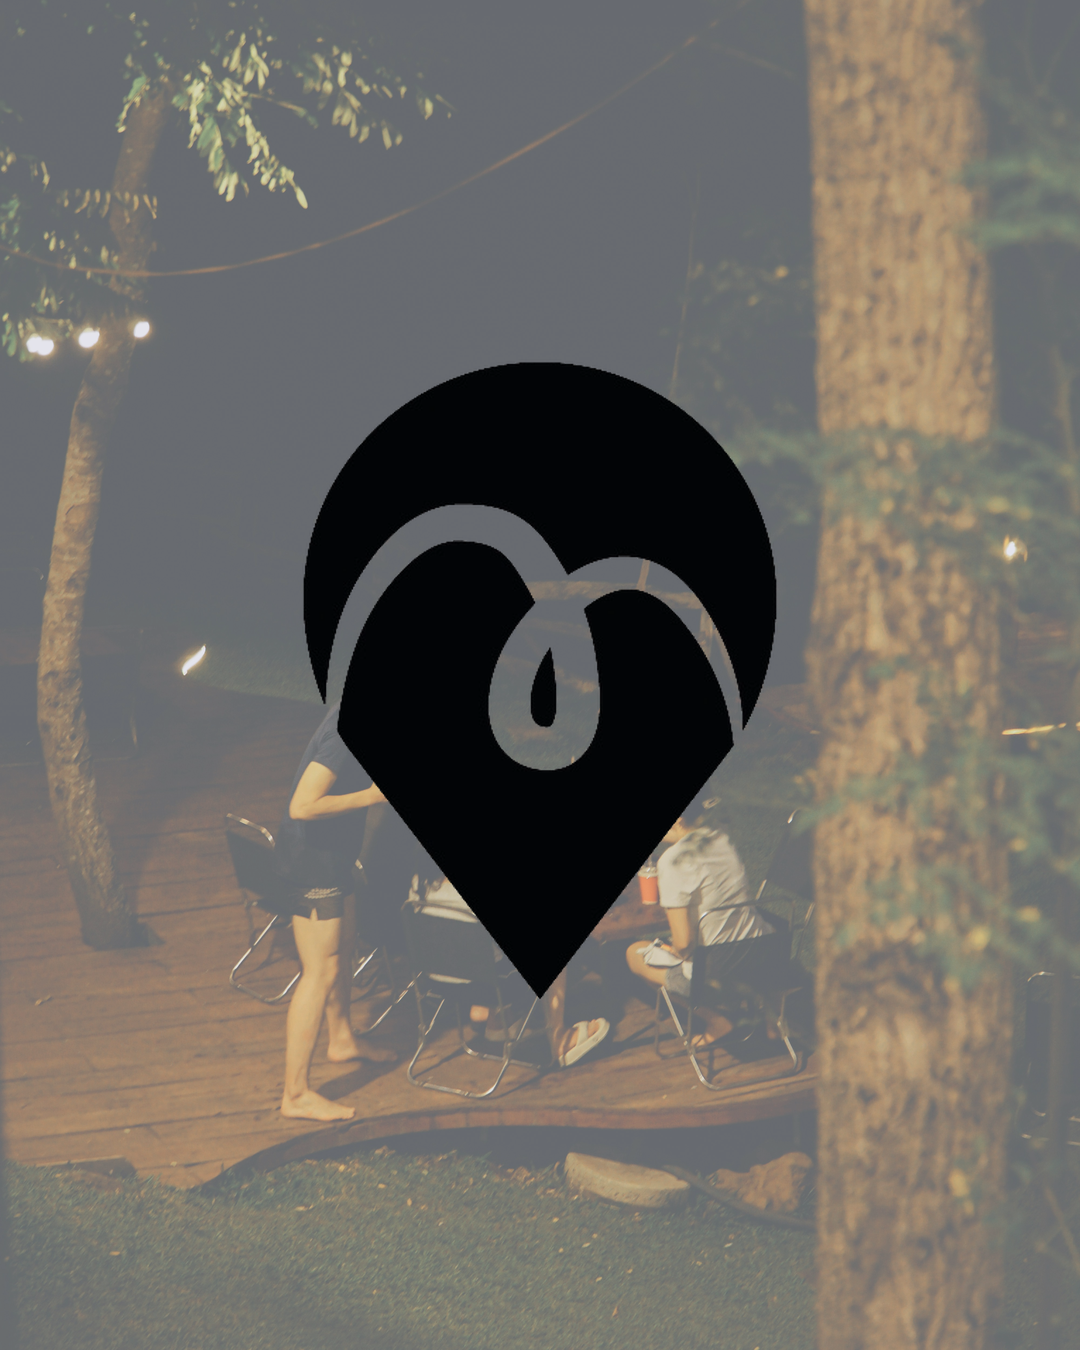
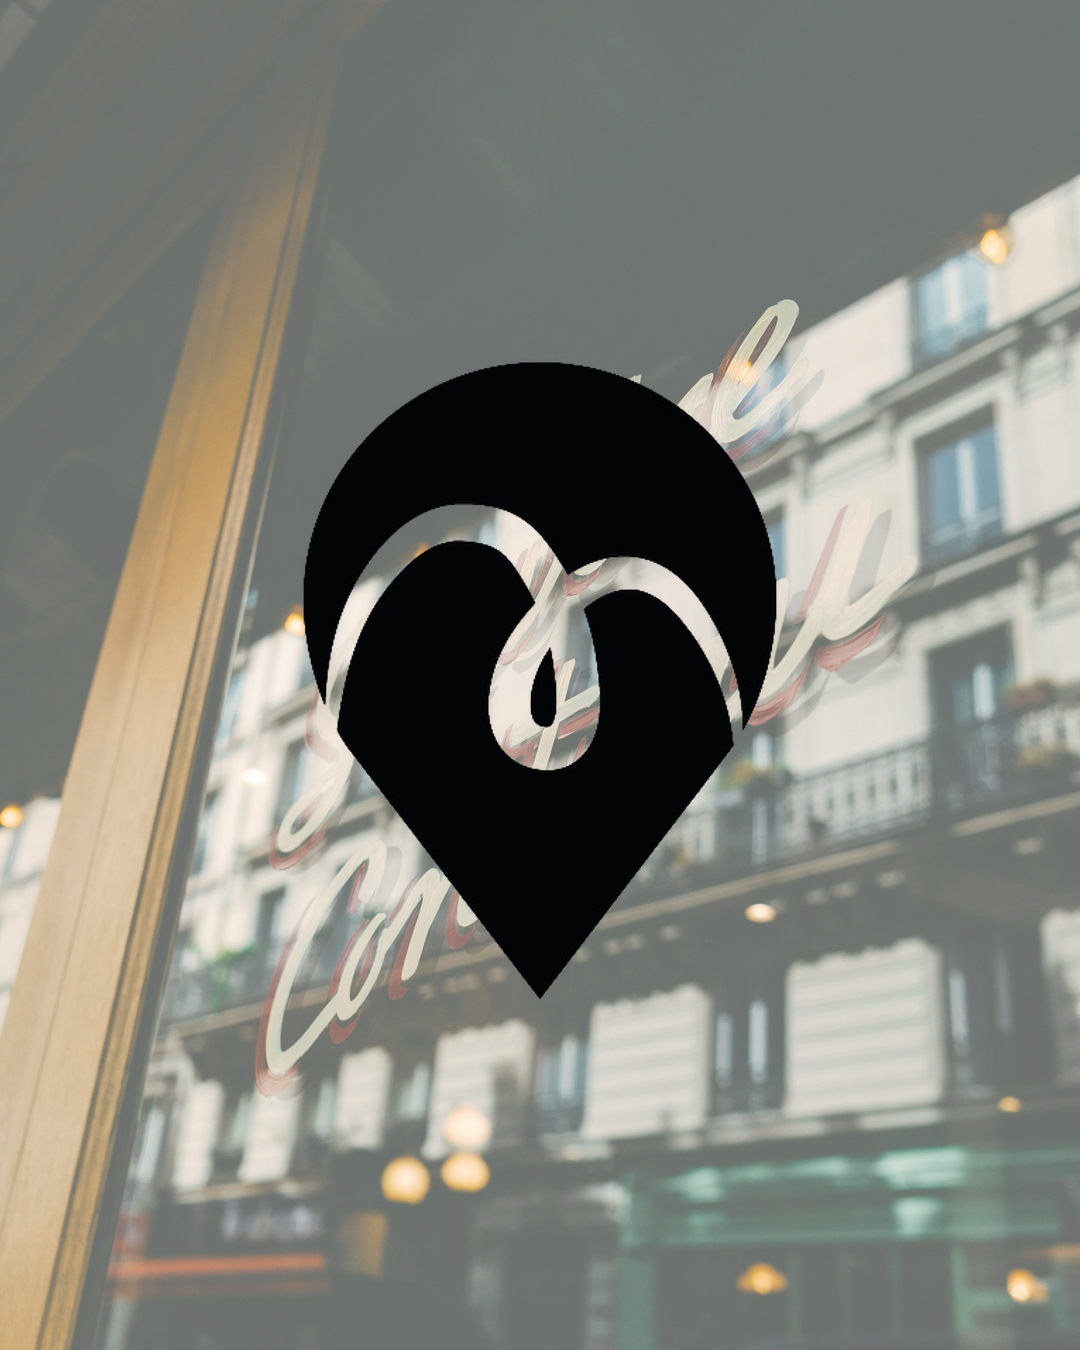
change randomize posts + ambiance003 changed

diff --git a/scheduler.py b/scheduler.py
@@ -11,6 +11,7 @@ Commandes:
     python scheduler.py regenerate-images                  # Régénérer les images des drafts
 """
 import json
+import random
 import sys
 from datetime import datetime, timezone
 from pathlib import Path
@@ -28,7 +29,7 @@ from services.claude_service import ClaudeService, check_claude_availability
 from services.unsplash_service import UnsplashService, check_unsplash_availability
 
 
-# Ordre strict de publication : Phrase -> Chiffre -> Photo (cyclique)
+# Types de posts (ordre utilisé pour affichage des stats)
 PUBLISH_ORDER = ["phrase", "chiffre", "photo"]
 
 
@@ -87,28 +88,40 @@ def get_posted_count() -> int:
     return count_posts_by_status("posted")
 
 
-def get_next_post_type() -> str:
-    """Détermine le type du prochain post à publier selon l'ordre strict."""
-    posted_count = get_posted_count()
-    return PUBLISH_ORDER[posted_count % 3]
+def get_next_post_type(data: Optional[dict] = None) -> Optional[str]:
+    """
+    Détermine le type du prochain post à publier (aléatoire parmi les types disponibles).
+    
+    Returns:
+        Un type ayant au moins un post "ready", ou None si aucun
+    """
+    if data is None:
+        data = load_content()
+    ready_by_type = {}
+    for post in data.get("posts", []):
+        if post.get("status") == "ready":
+            t = post.get("type")
+            ready_by_type[t] = ready_by_type.get(t, 0) + 1
+    available = [t for t in ready_by_type if ready_by_type[t] > 0]
+    return random.choice(available) if available else None
 
 
 def get_next_post_to_publish() -> Optional[dict]:
     """
-    Récupère le prochain post à publier selon l'ordre strict.
+    Récupère le prochain post à publier (type et post choisis aléatoirement).
     
     Returns:
         Le post à publier ou None si aucun n'est disponible
     """
     data = load_content()
-    next_type = get_next_post_type()
-    
-    # Chercher le premier post "ready" du bon type
-    for post in data.get("posts", []):
-        if post.get("type") == next_type and post.get("status") == "ready":
-            return post
-    
-    return None
+    next_type = get_next_post_type(data)
+    if not next_type:
+        return None
+    ready_posts = [
+        p for p in data.get("posts", [])
+        if p.get("type") == next_type and p.get("status") == "ready"
+    ]
+    return random.choice(ready_posts) if ready_posts else None
 
 
 def format_caption(post: dict) -> str:
@@ -426,7 +439,7 @@ def generate_phrases(from_num: int, to_num: int, dry_run: bool):
 @click.option("--force-type", type=click.Choice(["phrase", "chiffre", "photo"]), 
               help="Forcer un type spécifique (ignore l'ordre)")
 def publish_next(dry_run: bool, force_type: Optional[str]):
-    """Publie le prochain post selon l'ordre strict (Phrase → Chiffre → Photo)."""
+    """Publie le prochain post (sélection aléatoire parmi les posts ready)."""
     
     # Vérifier la configuration Instagram
     ig_status = check_instagram_availability()
@@ -436,29 +449,32 @@ def publish_next(dry_run: bool, force_type: Optional[str]):
     
     data = load_content()
     
-    # Déterminer le type à publier
-    if force_type:
-        next_type = force_type
-        click.echo(f"Type forcé: {next_type}")
-    else:
-        next_type = get_next_post_type()
-    
-    click.echo(f"\n=== Publication du prochain post ===")
-    click.echo(f"Type attendu: {next_type}")
-    click.echo(f"Posts déjà publiés: {get_posted_count()}")
-    
-    # Trouver le post à publier
+    # Sélectionner le post à publier (aléatoire)
     post_to_publish = None
     post_index = None
     
-    for i, post in enumerate(data.get("posts", [])):
-        if post.get("type") == next_type and post.get("status") == "ready":
-            post_to_publish = post
-            post_index = i
-            break
+    if force_type:
+        click.echo(f"Type forcé: {force_type}")
+        ready_posts = [
+            (i, p) for i, p in enumerate(data.get("posts", []))
+            if p.get("type") == force_type and p.get("status") == "ready"
+        ]
+        if ready_posts:
+            post_index, post_to_publish = random.choice(ready_posts)
+    else:
+        post_to_publish = get_next_post_to_publish()
+        if post_to_publish:
+            post_index = next(
+                i for i, p in enumerate(data.get("posts", []))
+                if p.get("id") == post_to_publish["id"]
+            )
+    
+    click.echo(f"\n=== Publication du prochain post ===")
+    click.echo(f"Posts déjà publiés: {get_posted_count()}")
     
     if not post_to_publish:
-        click.echo(f"\nAucun post '{next_type}' avec status 'ready' trouvé.", err=True)
+        msg = f"\nAucun post '{force_type}' avec status 'ready' trouvé." if force_type else "\nAucun post ready disponible."
+        click.echo(msg, err=True)
         click.echo("Générez du contenu avec: python scheduler.py generate-content")
         return
     
@@ -525,35 +541,23 @@ def grid_preview(rows: int):
     click.echo("           GRILLE INSTAGRAM - LE MIDDLE")
     click.echo("=" * 60)
     
-    # Calculer le prochain type
-    next_type = get_next_post_type()
     posted_count = get_posted_count()
     
-    click.echo(f"\nProchain type à publier: {next_type.upper()}")
-    click.echo(f"Position dans le cycle: {(posted_count % 3) + 1}/3 (P-C-Ph)")
+    click.echo(f"\nMode: aléatoire")
     click.echo(f"Total publiés: {posted_count}")
     
-    # Afficher la file d'attente
-    click.echo("\n--- File d'attente (prochains posts) ---")
+    # Afficher la file d'attente (ordre aléatoire simulé)
+    click.echo("\n--- File d'attente (ordre aléatoire simulé) ---")
     click.echo(f"{'Col 1':<20} {'Col 2':<20} {'Col 3':<20}")
     click.echo("-" * 60)
     
-    # Construire la grille des prochains posts selon l'ordre
-    queue = []
-    type_queues = {
-        "phrase": [p for p in ready if p.get("type") == "phrase"],
-        "chiffre": [p for p in ready if p.get("type") == "chiffre"],
-        "photo": [p for p in ready if p.get("type") == "photo"]
-    }
-    
-    # Simuler les prochains posts
-    for i in range(rows * 3):
-        type_needed = PUBLISH_ORDER[(posted_count + i) % 3]
-        if type_queues[type_needed]:
-            post = type_queues[type_needed].pop(0)
-            queue.append(post)
-        else:
-            queue.append({"id": f"[MANQUANT:{type_needed}]", "status": "missing", "type": type_needed})
+    # Mélanger les posts ready et prendre les N premiers
+    queue = list(ready)
+    random.shuffle(queue)
+    queue = queue[: rows * 3]
+    # Compléter avec des placeholders si nécessaire
+    while len(queue) < rows * 3:
+        queue.append({"id": "[MANQUANT]", "status": "missing", "type": "?"})
     
     # Afficher en lignes de 3
     for row in range(rows):
@@ -627,27 +631,26 @@ def queue_status():
             click.echo(f"{post_type:<12} {s['ready']:<8} {s['draft']:<8} {s['posted']:<8}")
     
     # Prochains posts
-    click.echo(f"\n--- Ordre de publication ---")
-    next_type = get_next_post_type()
+    click.echo(f"\n--- Mode de publication ---")
     posted_count = get_posted_count()
     
     click.echo(f"Posts publiés: {posted_count}")
-    click.echo(f"Prochain type: {next_type}")
-    click.echo(f"Cycle actuel: {PUBLISH_ORDER}")
+    click.echo(f"Mode: aléatoire (type et post choisis au hasard)")
     
-    # Liste des prochains posts
-    click.echo(f"\n--- Prochains posts à publier ---")
+    # Liste des prochains posts par type (exemple de sélection)
+    click.echo(f"\n--- Posts ready par type ---")
     
-    for i, post_type in enumerate(PUBLISH_ORDER):
+    for post_type in PUBLISH_ORDER:
         ready_posts = [p for p in posts if p.get("type") == post_type and p.get("status") == "ready"]
         
         if ready_posts:
-            next_post = ready_posts[0]
-            indicator = ">" if post_type == next_type else " "
-            click.echo(f"{indicator} {post_type.upper()}: {next_post['id']}")
+            sample = random.sample(ready_posts, min(3, len(ready_posts)))
+            ids = ", ".join(p["id"] for p in sample)
+            if len(ready_posts) > 3:
+                ids += f" (+{len(ready_posts) - 3} autres)"
+            click.echo(f"  {post_type.upper()}: {ids}")
         else:
-            indicator = ">" if post_type == next_type else " "
-            click.echo(f"{indicator} {post_type.upper()}: [AUCUN POST READY]")
+            click.echo(f"  {post_type.upper()}: [AUCUN POST READY]")
     
     # Services status
     click.echo(f"\n--- État des services ---")

diff --git a/main.py b/main.py
@@ -10,6 +10,7 @@ Commandes:
     python main.py status                      # Vérifier la configuration
 """
 import json
+import random
 import sys
 from pathlib import Path
 from typing import Optional
@@ -563,9 +564,10 @@ def auto_photo(post_id: str):
     try:
         service = UnsplashService()
         
-        # Obtenir un preset aléatoire
-        preset_key, preset_query = service.get_random_preset()
-        click.echo(f"\nPreset aléatoire: {preset_key}")
+        # Pour les posts ambiance, utiliser uniquement les presets urbains
+        ambiance_only = post.get("category") == "ambiance"
+        preset_key, preset_query = service.get_random_preset(ambiance_only=ambiance_only)
+        click.echo(f"\nPreset aléatoire: {preset_key}" + (" (urbain)" if ambiance_only else ""))
         click.echo(f"Recherche: '{preset_query}'")
         
         # Récupérer une photo aléatoire
@@ -627,7 +629,7 @@ def auto_photo(post_id: str):
         click.echo(f"\nErreur: {e}", err=True)
 
 
-# Ordre strict de publication : Phrase -> Chiffre -> Photo (cyclique)
+# Types de posts (ordre utilisé pour affichage des stats)
 PUBLISH_ORDER = ["phrase", "chiffre", "photo"]
 
 
@@ -651,35 +653,23 @@ def grid_preview(rows: int):
     click.echo("           GRILLE INSTAGRAM - LE MIDDLE")
     click.echo("=" * 60)
     
-    # Calculer le prochain type
     posted_count = len(posted)
-    next_type = PUBLISH_ORDER[posted_count % 3]
     
-    click.echo(f"\nProchain type à publier: {next_type.upper()}")
-    click.echo(f"Position dans le cycle: {(posted_count % 3) + 1}/3 (P-C-Ph)")
+    click.echo(f"\nMode: aléatoire")
     click.echo(f"Total publiés: {posted_count}")
     
-    # Afficher la file d'attente
-    click.echo("\n--- File d'attente (prochains posts) ---")
+    # Afficher la file d'attente (ordre aléatoire simulé)
+    click.echo("\n--- File d'attente (ordre aléatoire simulé) ---")
     click.echo(f"{'Col 1':<20} {'Col 2':<20} {'Col 3':<20}")
     click.echo("-" * 60)
     
-    # Construire la grille des prochains posts selon l'ordre
-    queue = []
-    type_queues = {
-        "phrase": [p for p in ready if p.get("type") == "phrase"],
-        "chiffre": [p for p in ready if p.get("type") == "chiffre"],
-        "photo": [p for p in ready if p.get("type") == "photo"]
-    }
-    
-    # Simuler les prochains posts
-    for i in range(rows * 3):
-        type_needed = PUBLISH_ORDER[(posted_count + i) % 3]
-        if type_queues[type_needed]:
-            post = type_queues[type_needed].pop(0)
-            queue.append(post)
-        else:
-            queue.append({"id": f"[MANQUANT:{type_needed}]", "status": "missing", "type": type_needed})
+    # Mélanger les posts ready et prendre les N premiers
+    queue = list(ready)
+    random.shuffle(queue)
+    queue = queue[: rows * 3]
+    # Compléter avec des placeholders si nécessaire
+    while len(queue) < rows * 3:
+        queue.append({"id": "[MANQUANT]", "status": "missing", "type": "?"})
     
     # Afficher en lignes de 3
     for row in range(rows):

diff --git a/services/unsplash_service.py b/services/unsplash_service.py
@@ -20,19 +20,34 @@ class UnsplashService:
         "cafe_terrace": "cafe terrace people",
         "coffee_shop": "coffee shop friends",
         "bistro_paris": "bistro paris terrace",
+        # Terrasses urbaines (Paris, grandes villes)
+        "terrace_paris": "paris cafe terrace people",
+        "terrace_city": "city terrace outdoor dining",
+        "terrace_toast": "friends toast glasses terrace paris",
         # Bars
         "wine_bar": "wine bar friends",
         "rooftop_bar": "rooftop bar",
         "bar_night": "bar people night",
-        "happy_hour": "happy hour drinks friends",
+        "happy_hour": "happy hour terrace paris",
         # Restaurants
         "restaurant_friends": "restaurant friends dinner",
+        "restaurant_table": "restaurant table food people smiling",
+        "restaurant_dining": "restaurant dinner friends happy",
         "outdoor_dining": "outdoor dining people",
         "brunch": "brunch friends",
-        # Ambiance générale
+        # Ambiance générale (urbain)
         "friends_drinking": "friends drinks",
-        "aperitif": "aperitif outdoor",
+        "aperitif": "paris terrace aperitif",
     }
+
+    # Presets réservés aux posts ambiance (terrasses + restaurants uniquement)
+    AMBIANCE_PRESETS = [
+        "terrace_paris",
+        "terrace_city",
+        "terrace_toast",
+        "restaurant_table",
+        "restaurant_dining",
+    ]
 
     def __init__(self):
         """Initialise le service Unsplash."""
@@ -46,14 +61,21 @@ class UnsplashService:
             "Accept-Version": "v1",
         }
 
-    def get_random_preset(self) -> tuple[str, str]:
+    def get_random_preset(self, ambiance_only: bool = False) -> tuple[str, str]:
         """
         Retourne un preset aléatoire (clé, query).
+        
+        Args:
+            ambiance_only: Si True, ne retourne que les presets urbains (AMBIANCE_PRESETS).
         
         Returns:
             Tuple (preset_key, search_query)
         """
-        key = random.choice(list(self.PRESET_QUERIES.keys()))
+        if ambiance_only:
+            keys = [k for k in self.AMBIANCE_PRESETS if k in self.PRESET_QUERIES]
+        else:
+            keys = list(self.PRESET_QUERIES.keys())
+        key = random.choice(keys)
         return key, self.PRESET_QUERIES[key]
 
     def search_photos(
